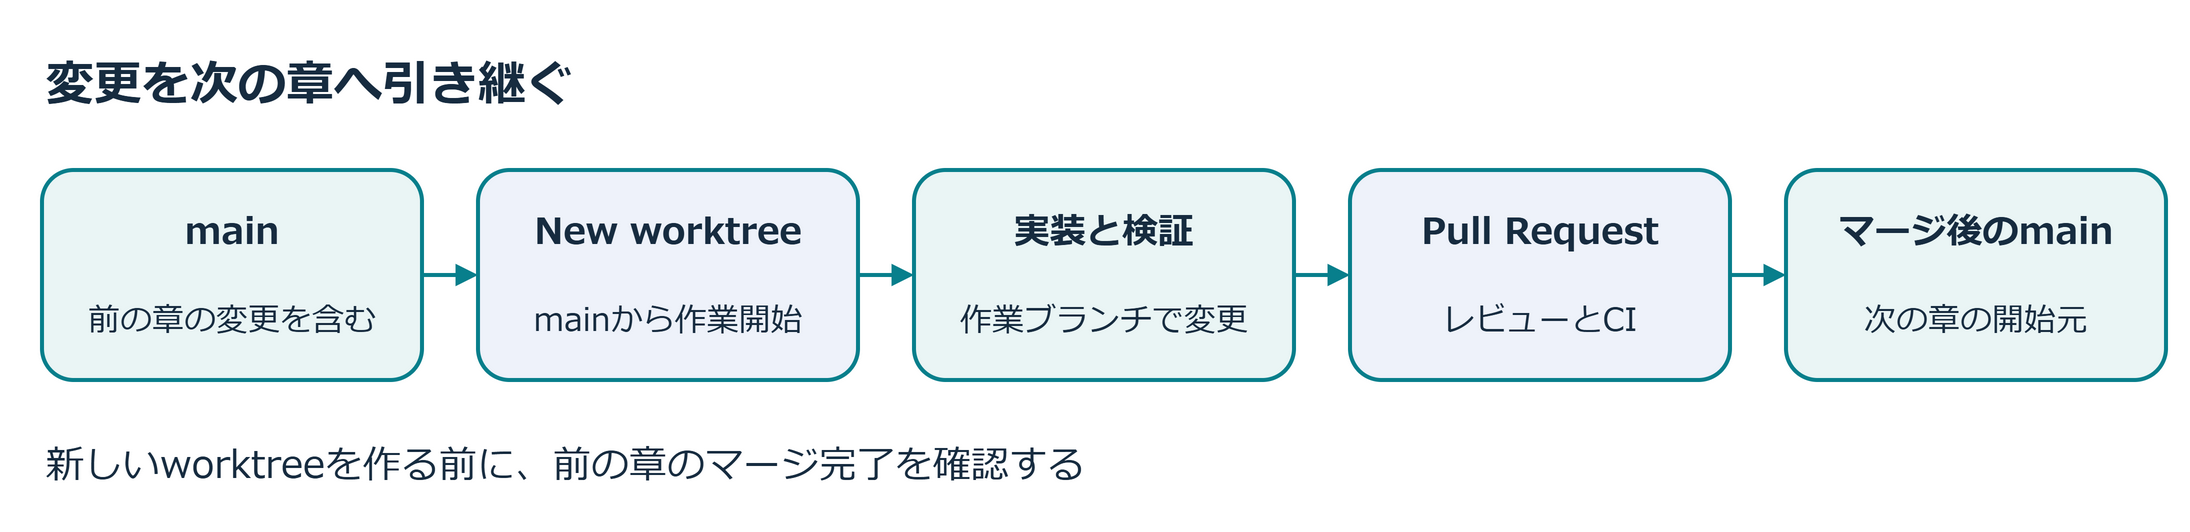
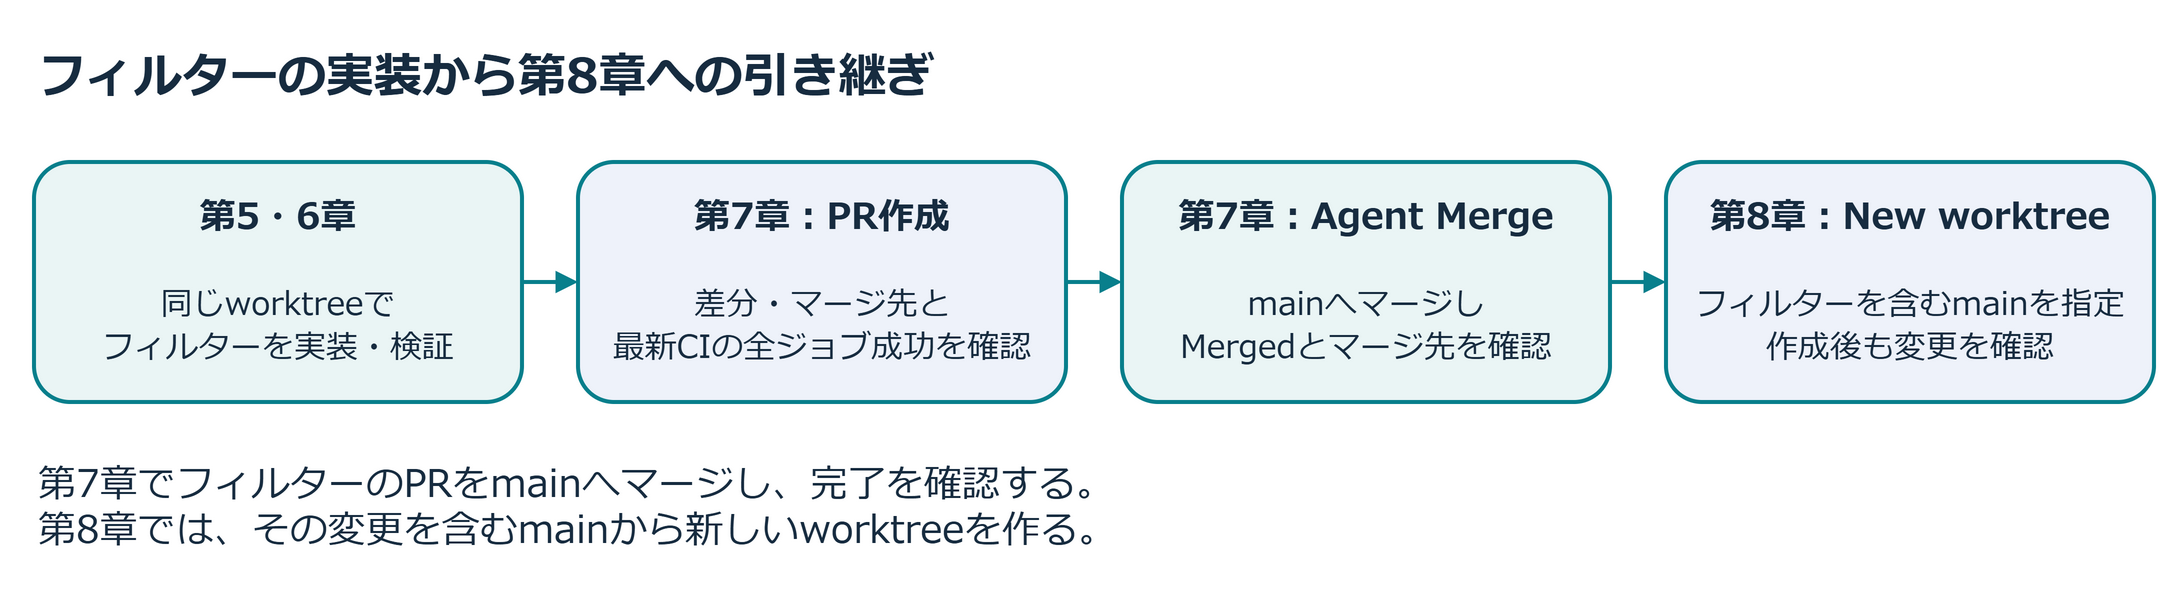
Regenerate Web materials for the chapter-specific worktree handoff

Changed region(s): [[0.0, 0.2707, 1.0, 0.7218], [0.0, 0.782, 0.5, 0.9323], [0.0, 0.0902, 0.4375, 0.2105]]

diff --git a/website/ja/workshops/material/verification.html b/website/ja/workshops/material/verification.html
@@ -13,6 +13,9 @@
 <strong>今回の実走は、GitHub連携経路で追加指示を行いながら確認した結果です。</strong> 改訂後の初回プロンプトだけによる再現や、未実施の経路まで確認済みとは扱いません。以下の「未作成」「未マージ」は各段階での状態を表します。現在の未確認範囲は本書の第2節、画面ごとの確認項目は<a href="ui-check.html">UI確認表</a>を参照してください。</p>
 </blockquote>
 <h2>1. 実走結果と教材改訂の記録</h2>
+<h3>2026年10月4日：第7章から第8章への引き継ぎの時系列</h3>
+<p>第7章の引き継ぎ図を、フィルター機能の第5・6章での実装・検証、第7章でのPR作成とマージ、第8章での新しいworktree作成の順に描き直しました。図の題名と注記に章番号と対象を明記し、マージの実行と完了確認を区別しました。本文にはmainを引き継ぎ元にする理由を補足しています。第8章の前提では、フィルターを統合したmainと、共有Canvasを統合したmainの2つの開始時点を分けました。入力用プロンプトと見出し、掲載する画面画像は維持しています。</p>
+<p>修正文と図の文字は登録済みのJustRight MCPの既定設定で検査し、指摘0件でした。修正後にAntigravityへ読み取り専用の確認を依頼し、JustRight MCPとyomiyasuスキルの使用を要望に含めました。Antigravityはスキルを読み、MCPで修正前後を検査して、いずれも指摘0件でした。助詞と図の題名への提案を反映し、追加確認でも修正が必要な指摘はありませんでした。最終稿のyomiyasuリンター評価は、図の文字と第7章の修正文が100点、第8章の前提が95点です。第8章の文末の連続は、各セッションの開始条件を並べて説明する文章として確認し、保持しました。配布用の自動検査10件が成功しました。この変更は説明の明確化であり、演習の再実走ではありません。</p>
 <h3>2026年10月4日：Playwright MCPの役割とケースの解決策</h3>
 <p>第6章の概要に、MCPの通信方式とPlaywright MCPが提供するブラウザー操作・ページの状態取得を追加しました。ケースの解決策では、CopilotがTailspin Toysを操作し、受講者が履歴と観察結果を期待結果と比べる役割を明記しています。追加説明の出典はGitHub公式資料とMicrosoftのREADMEです。入力用プロンプト、手順、受け入れ条件、画像は維持しました。</p>
 <p>修正文は登録済みのJustRight MCPの既定設定で検査し、指摘0件でした。修正後にAntigravityへ読み取り専用の確認を依頼し、JustRight MCPとyomiyasuスキルの使用を要望に含めました。Antigravityはスキルを読み、MCPで1回検査して、指摘0件でした。修正した概要と解決策のyomiyasuリンター評価は、いずれも95点です。文末の連続への指摘は、主体と操作を明確にする文章として読み直して保持しました。配布用の自動検査10件が成功しました。この変更は説明の補強であり、演習の再実走ではありません。</p>

diff --git a/website/ja/workshops/app/7-agent-merge.html b/website/ja/workshops/app/7-agent-merge.html
@@ -108,11 +108,12 @@
 <li>Appでフィルター機能の実装セッションまたはPR画面を開き、対象PRが<strong>Merged</strong>になったことを確認します。</li>
 <li>GitHubでもフィルター機能の同じPRを開き、演習用リポジトリのmainへ<strong>Merged</strong>になったことと、最新コミットのCI全ジョブが成功したことを照合します。</li>
 <li>エージェントがレビュー対応やCI修復のためにコードを変更した場合は、PRの追加差分と変更後の検査結果も確認します。</li>
-<li>次章で新しいworktreeを作るときにフィルター機能を引き継げるよう、演習用リポジトリのmainへフィルター機能が統合されたことを確かめます。</li>
+<li>本章のマージ完了を確認したら、第8章で使う開始元を確かめます。演習用リポジトリのmainにフィルター機能が含まれていることを確認してください。第8章では、そのmainから新しいworktreeを作成します。</li>
 </ol>
 <p><img alt="GitHubの同じPRでMergedとCIの成功を確認する例" src="../assets/app-20261004-06-pr-merged-github.jpg" /></p>
 <p>画像はフィルター機能のPRをマージした後の表示例です。自分の演習用リポジトリのPR番号を確認し、画像の表示と自分のPRのマージ結果を照合してください。</p>
-<p><img alt="変更を次の章へ引き継ぐ" src="../assets/app-worktree-handoff.png" /></p>
+<p>この図は、第5・6章で実装・検証したフィルター機能を、第7章でmainへ統合し、第8章で使う流れです。作業用worktreeの変更は、別のworktreeへ自動的に引き継がれません。本章でフィルター機能のPRをmainへマージし、AppとGitHubで同じPRのMergedとマージ先を照合します。第8章では、フィルター機能を含むmainから新しいworktreeを作り、変更が含まれていることを確認します。</p>
+<p><img alt="フィルターの実装から第8章への引き継ぎ" src="../assets/app-worktree-handoff.png" /></p>
 <h2 id="74-結果の整理と振り返り">7.4 結果の整理と振り返り</h2>
 <p>フィルター機能のPRのマージが完了したら、次の3点を自分の言葉で説明してみてください。対象PRのAgent mergeをOnにしたこと、CIが成功したこと、mainへのマージが完了したことを区別できれば、途中で問題が起きた場合にも確認箇所を絞れます。</p>
 <table>

diff --git a/website/ja/workshops/app/8-canvases.html b/website/ja/workshops/app/8-canvases.html
@@ -64,7 +64,7 @@
 </tbody>
 </table>
 <h2 id="82-取り組む前に">8.2 取り組む前に</h2>
-<p>自分の演習用リポジトリのmainに、前章のフィルター機能がマージされていることを確認します。本章ではAppでCanvasを共有するセッションと、検索を実装するセッションを分けます。どちらも<strong>New worktree</strong>と演習用リポジトリのmainを選び、それぞれの開始時点のmainを引き継いでください。</p>
+<p>本章ではAppでCanvasを共有するセッションと、タイトル検索を実装するセッションを分けます。Canvas作成セッションは、第7章でフィルター機能を統合したmainから始めます。タイトル検索の実装セッションは、8.3.3で共有CanvasのPRをマージした後のmainから始めます。どちらも<strong>New worktree</strong>と自分の演習用リポジトリのmainを選んでください。各セッションを作成したら、開始元のmainにある変更がworktreeに含まれていることも確認します。</p>
 <p>演習用リポジトリのゲームのタイトル検索Issueの本文と、Tailspin Toysのゲームデータにあるタイトル・カテゴリ・出版社を参照できる状態で取り組みます。検索を追加しても星評価と既存のカテゴリ・出版社フィルターを維持することが、今回の要件です。画像の操作例にあるIssue番号や件数は、自分の演習用リポジトリの最新情報と照合しましょう。</p>
 <p>エージェントは、入力した指示に応じてCanvasの表示やボタンを生成します。ボタンの表示名が操作例と違っていても、Open Issue一覧を取得する操作、Issue本文をセッションへ追加する操作、Issueの実装を始める操作を区別できるかで確認します。</p>
 <h2 id="83-ケース">8.3 ケース</h2>
